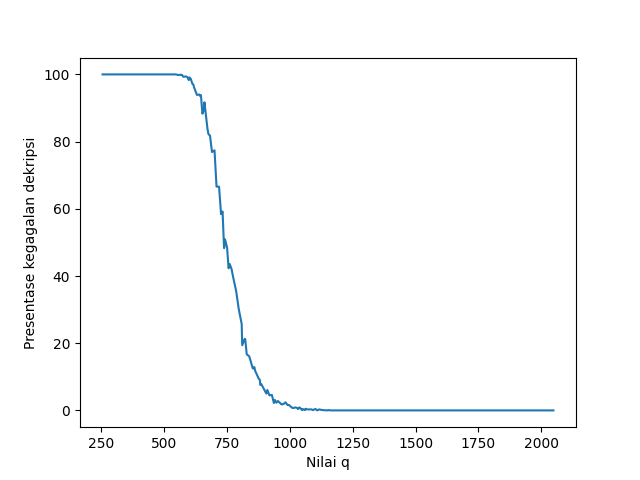
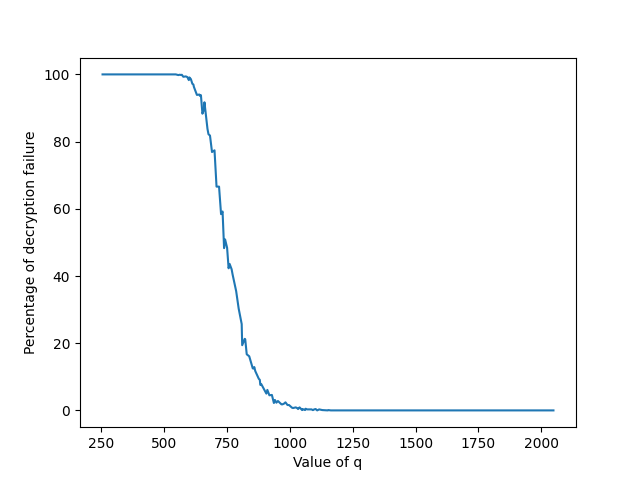
add latest benchmarking

Changed region(s): [[0.0312, 0.2812, 0.0625, 0.75], [0.4688, 0.9375, 0.5625, 1.0]]

diff --git a/v2/playground.dart b/v2/playground.dart
@@ -37,4 +37,9 @@ void main() {
   print(ntru2.f.coefficients);
   print(ntru3.fp.coefficients);
   print(ntru4.fp.coefficients);
+  print('--------------');
+  print(ntru1.h.coefficients);
+  print(ntru2.h.coefficients);
+  print(ntru3.h.coefficients);
+  print(ntru4.h.coefficients);
 }

diff --git a/final_benchmark/01_chart_key_generation.py b/final_benchmark/01_chart_key_generation.py
@@ -46,13 +46,13 @@ method_3_keygen_1000x = np.average([
   parse_time_to_seconds(b'0:00:34.995316'),
 ])
 
-data = {'Metode 1': method_1_keygen_1000x, 'Metode 2': method_2_keygen_1000x, 'Metode 3': method_3_keygen_1000x}
+data = {'Method 1': method_1_keygen_1000x, 'Method 2': method_2_keygen_1000x, 'Method 3': method_3_keygen_1000x}
 print(data)
 methods = list(data.keys())
 values = list(data.values())
 
 plt.bar(methods, values, color=(0.2, 0.4, 0.6, 0.6),width = 0.4)
-plt.ylabel("Lama Eksekusi (dalam detik)")
+plt.ylabel("Execution time (seconds)")
 plt.savefig('01_01_key generation.png')
 plt.clf()
 
@@ -92,12 +92,12 @@ method_3_encryption_10000x = np.average([
   parse_time_to_seconds(b'0:00:06.528590'),
   parse_time_to_seconds(b'0:00:06.507548'),
 ])
-data = {'Metode 1': method_1_encryption_10000x, 'Metode 2': method_2_encryption_10000x, 'Metode 3': method_3_encryption_10000x}
+data = {'Method 1': method_1_encryption_10000x, 'Method 2': method_2_encryption_10000x, 'Method 3': method_3_encryption_10000x}
 print(data)
 methods = list(data.keys())
 values = list(data.values())
 plt.bar(methods, values, color=(0.2, 0.4, 0.6, 0.6),width = 0.4)
-plt.ylabel("Lama Eksekusi (dalam detik)")
+plt.ylabel("Execution time (seconds)")
 plt.savefig('01_02_encryption.png')
 plt.clf()
 
@@ -137,11 +137,11 @@ method_3_decryption_10000x = np.average([
   parse_time_to_seconds(b'0:00:16.069549'),
   parse_time_to_seconds(b'0:00:15.614441'),
 ])
-data = {'Metode 1': method_1_decryption_10000x, 'Metode 2': method_2_decryption_10000x, 'Metode 3': method_3_decryption_10000x}
+data = {'Method 1': method_1_decryption_10000x, 'Method 2': method_2_decryption_10000x, 'Method 3': method_3_decryption_10000x}
 print(data)
 methods = list(data.keys())
 values = list(data.values())
 plt.bar(methods, values, color=(0.2, 0.4, 0.6, 0.6),width = 0.4)
-plt.ylabel("Lama Eksekusi (dalam detik)")
+plt.ylabel("Execution time (seconds)")
 plt.savefig('01_03_decryption.png')
 plt.clf()

diff --git a/security_testing/linear_reg.py b/security_testing/linear_reg.py
@@ -33,15 +33,17 @@ def plot_regression_line(x, y, b):
     plt.plot(x, y_pred, color="g")
 
     # putting labels
-    plt.xlabel('x')
-    plt.ylabel('y')
+    plt.xlabel('N')
+    plt.ylabel('log(T)')
 
     # function to show plot
-    plt.show()
+    plt.savefig('linreg.png')
 
 
 def find_log_t(b, n):
     # ln(T ) ≥ AN + B
+    # print(f'A = {b[1]}')
+    # print(f'B = {b[0]}')
     return np.exp(b[1] * n + b[0])
 
 
@@ -80,7 +82,7 @@ def main():
     # plotting regression line
     plot_regression_line(x, y, b)
     for i in range(400):
-        print(i, human_time_duration(find_log_t(b, i)))
+        print(i, int(find_log_t(b, i)), human_time_duration(find_log_t(b, i)))
 
 
 if __name__ == "__main__":

diff --git a/final_benchmark/02_decryption_failure.py b/final_benchmark/02_decryption_failure.py
@@ -10,8 +10,8 @@ with open('./02_decryption_failure.txt', 'r') as f:
         y.append(int(tmp[1].split('/')[0]) / 10.0)
 
 
-plt.ylabel("Presentase kegagalan dekripsi")
-plt.xlabel("Nilai q")
+plt.ylabel("Percentage of decryption failure")
+plt.xlabel("Value of q")
 plt.plot(x, y)
 plt.savefig('02_decryption failure.png')
 plt.clf()
